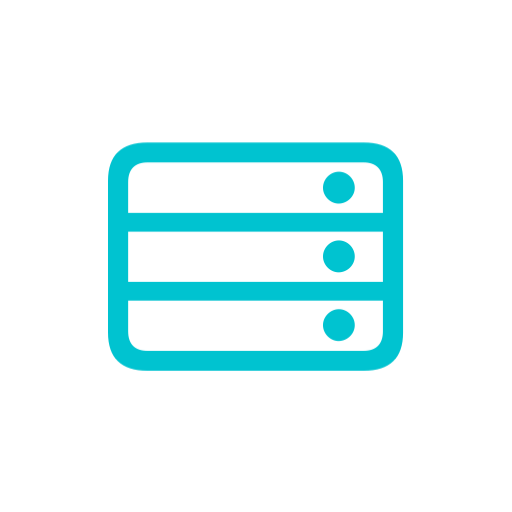
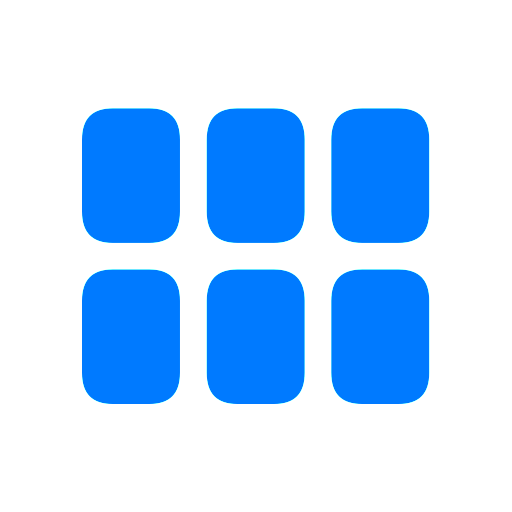
Better log viewer appearance awareness

diff --git a/Frontend/BackendsContent.swift b/Frontend/BackendsContent.swift
@@ -1367,6 +1367,10 @@ private final class BackendsHandler: NSObject, OuterframeHostDelegate, SingleLin
         return resolved
     }
 
+    private func resolvedColor(_ color: NSColor) -> NSColor {
+        NSColor(cgColor: resolvedCGColor(color)) ?? color
+    }
+
     private func updateLayout() {
         withEffectiveAppearance {
             withoutImplicitAnimations {
@@ -3239,7 +3243,7 @@ private final class BackendsHandler: NSObject, OuterframeHostDelegate, SingleLin
         return NSAttributedString(string: text,
                                   attributes: [
                                     .font: logTextFont(),
-                                    .foregroundColor: color,
+                                    .foregroundColor: resolvedColor(color),
                                     .paragraphStyle: paragraph
                                   ])
     }